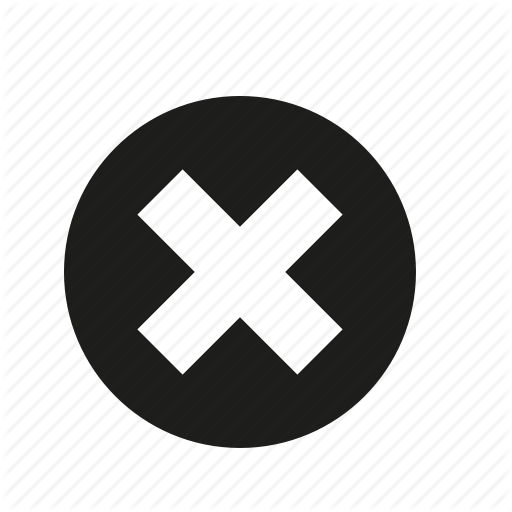
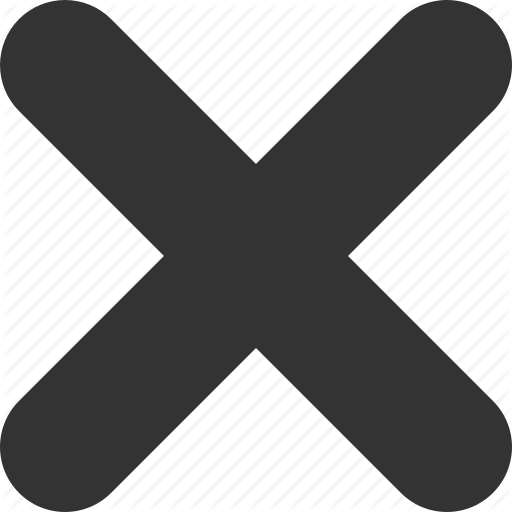
포트폴리오 페이지 버튼 추가

diff --git a/frontend/theorbit/src/app/user-portfolio/user-portfolio.component.ts b/frontend/theorbit/src/app/user-portfolio/user-portfolio.component.ts
@@ -32,6 +32,7 @@ export class UserPortfolioComponent implements OnInit {
   제1항의 탄핵소추는 국회재적의원 3분의 1 이상의 발의가 있어야 하며, 그 의결은 국회재적의원 과반수의 찬성이 있어야 한다. 다만, 대통령에 대한 탄핵소추는 국회재적의원 과반수의 발의와 국회재적의원 3분의 2 이상의 찬성이 있어야 한다. 대한민국은 민주공화국이다. 국가안전보장회의의 조직·직무범위 기타 필요한 사항은 법률로 정한다.\n\
   국가는 국민 모두의 생산 및 생활의 기반이 되는 국토의 효율적이고 균형있는 이용·개발과 보전을 위하여 법률이 정하는 바에 의하여 그에 관한 필요한 제한과 의무를 과할 수 있다. 계엄을 선포한 때에는 대통령은 지체없이 국회에 통고하여야 한다. 대통령이 제1항의 기간내에 공포나 재의의 요구를 하지 아니한 때에도 그 법률안은 법률로서 확정된다.\n\
   국민경제자문회의의 조직·직무범위 기타 필요한 사항은 법률로 정한다. 대통령은 국무총리·국무위원·행정각부의 장 기타 법률이 정하는 공사의 직을 겸할 수 없다. 이 헌법은 1988년 2월 25일부터 시행한다. 다만, 이 헌법을 시행하기 위하여 필요한 법률의 제정·개정과 이 헌법에 의한 대통령 및 국회의원의 선거 기타 이 헌법시행에 관한 준비는 이 헌법시행 전에 할 수 있다.']
+  images = ['https://material.angular.io/assets/img/examples/shiba2.jpg', 'http://placehold.it/400x500/E8117F/ffffff?text=문곰화이팅', 'https://material.angular.io/assets/img/examples/shiba1.jpg', 'http://placehold.it/300x100/E8117F/ffffff?text=졸려요'];
   userName = ['김희재']
   cellWidth;
   activities = [];
@@ -106,9 +107,16 @@ export class UserPortfolioComponent implements OnInit {
       var tempActivity = {
 
         supertag: this.superTagName[Math.floor(Math.random()*this.superTagName.length)],
-        tag: [this.tagName[Math.floor(Math.random()*this.tagName.length)], this.tagName[Math.floor(Math.random()*this.tagName.length)], this.tagName[Math.floor(Math.random()*this.tagName.length)]],
+        tag: [
+          this.tagName[Math.floor(Math.random()*this.tagName.length)], this.tagName[Math.floor(Math.random()*this.tagName.length)], this.tagName[Math.floor(Math.random()*this.tagName.length)]
+        ],
         user: this.userName[Math.floor(Math.random()*this.userName.length)],
-        content: this.content[Math.floor(Math.random()*this.content.length)]
+        content: this.content[Math.floor(Math.random()*this.content.length)],
+        images: [
+          this.images[Math.floor(Math.random()*this.images.length)],
+          this.images[Math.floor(Math.random()*this.images.length)],
+          this.images[Math.floor(Math.random()*this.images.length)]
+        ]
 
       }
 

diff --git a/frontend/theorbit/src/app/user-portfolio-modal/user-portfolio-modal.component.html b/frontend/theorbit/src/app/user-portfolio-modal/user-portfolio-modal.component.html
@@ -41,6 +41,10 @@
 </div>
 
 <div id="main-content" style="display: none;">
+  <img src="/assets/images/close_button.png" id="close-button" (click)="closeDialog()" [ngStyle]="{'position':'fixed', 'top':'20px', 'left': this.screenWidth * 0.95 - 50 + 'px','width':'30px','height':'30px', 'zIndex':'200'}">
+  <img src="/assets/images/right_arrow.png" id="right-button" (click)="clickRightButton()" [ngStyle]="{'position':'fixed', 'top':'50%', 'left': this.screenWidth * 0.95 - 50 + 'px','width':'50px','height':'50px', 'zIndex':'200'}">
+  <img src="/assets/images/left_arrow.png" id="left-button" (click)="clickLeftButton()" [ngStyle]="{'position':'fixed', 'top':'50%', 'left': 230 + this.screenWidth * 0.05 + 'px','width':'50px','height':'50px', 'zIndex':'200'}">
+
   <mat-sidenav mode="side" opened style="width: 230px; left: 0px; top: 0px;" class="fixedclass">
     <mat-accordion>
       <mat-expansion-panel [ngStyle]="{'background-color': '#efefef'}" expanded>
@@ -64,17 +68,28 @@
       </mat-expansion-panel>
     </mat-accordion>
   </mat-sidenav>
-  <div class="row">
-    <div class="col-12">
-      <div class="container">
-        <div *ngFor="let p of this.portfolio.portfolio; let i=index">
+  <div class="row" style="margin: 0px 0px 0px 230px;">
+    <div class="col-1"></div>
+    <div class="col-10">
+      <div class="container" style="text-align: center;">
+        <!-- <div *ngFor="let p of this.portfolio.portfolio; let i=index">
           <p>user : {{ p.user }}</p><br>
           <p>supertag : {{ p.supertag }}</p><br>
           <p>tag : {{ p.tag }}</p><br>
           <p style="margin-bottom: 2rem;white-space:pre-wrap;">{{p.content}}</p>
-          <p>-----------------------------------------------------------------------------------------</p>
+          <p>~~~~~~~~~~~~~~~~~~~~~~~~~~~~~~~~~~~~~~~~~~~~~~~~~~~~~~~~~~~~~~</p>
+        </div> -->
+        <div class="portfolio-specific">
+
+          <p id="portfolio-content-title">user : {{ this.portfolio.portfolio[this.portfolioInd].user }}</p><br>
+          <p id="portfolio-content-tag">tag : {{ this.portfolio.portfolio[this.portfolioInd].tag }}</p><br>
+          <img src="{{ this.portfolio.portfolio[this.portfolioInd].images[1] }}" align="middle" />
+          <p id="portfolio-content" style="margin-bottom: 2rem;white-space:pre-wrap;">{{this.portfolio.portfolio[this.portfolioInd].content}}</p>
+          <img src="{{ this.portfolio.portfolio[this.portfolioInd].images[2] }}" align="middle" />
+
         </div>
       <div>
     </div>
+    <div class="col-1"></div>
   </div>
 </div>

diff --git a/frontend/theorbit/src/app/user-portfolio-modal/user-portfolio-modal.component.ts b/frontend/theorbit/src/app/user-portfolio-modal/user-portfolio-modal.component.ts
@@ -10,22 +10,57 @@ import { MAT_DIALOG_DATA, MatDialogRef } from '@angular/material';
 
 export class UserPortfolioModalComponent implements OnInit {
 
-  constructor( @Inject(MAT_DIALOG_DATA) public portfolio: any, @Inject(MAT_DIALOG_DATA) public tags: any, public dialModalRef: MatDialogRef<any>, private elementRef:ElementRef ) { }
+  constructor( @Inject(MAT_DIALOG_DATA) public portfolio: any, @Inject(MAT_DIALOG_DATA) public tags: any, public dialogRef: MatDialogRef<any>, private elementRef:ElementRef ) { }
+
+  screenWidth:number = window.innerWidth;
+  portfolioInd:number = 0;
 
   ngOnInit() {
     console.log(this.portfolio);
-    // this.changePosition()
+
   }
 
   ngAfterViewInit() {
     setInterval(() => {
       this.elementRef.nativeElement.querySelector('#preloader').style.display = "none";
       this.elementRef.nativeElement.querySelector('#main-content').style.display = "block";
-    }, 500);
+    }, 750);
+
+    this.elementRef.nativeElement.querySelector('.portfolio-specific').addEventListener('animationend', function(){
+      this.elementRef.nativeElement.querySelector('.portfolio-specific').classList.remove('animated');
+      this.elementRef.nativeElement.querySelector('.portfolio-specific').classList.remove('fadeInRight');
+      this.elementRef.nativeElement.querySelector('.portfolio-specific').classList.remove('fadeInLeft');
+    }.bind(this));
+  }
+
+  closeDialog() {
+    this.dialogRef.close('Portfolio closed');
+  }
+
+  clickRightButton(){
+
+    this.elementRef.nativeElement.querySelector('.portfolio-specific').classList.add('animated');
+    this.elementRef.nativeElement.querySelector('.portfolio-specific').classList.add('fadeInRight');
+    if(this.portfolioInd == this.portfolio.portfolio.length - 1){
+      this.portfolioInd = 0;
+    }else{
+      this.portfolioInd++;
+    }
+
+  }
+
+  clickLeftButton(){
+    this.elementRef.nativeElement.querySelector('.portfolio-specific').classList.add('animated');
+    this.elementRef.nativeElement.querySelector('.portfolio-specific').classList.add('fadeInLeft');
+    if(this.portfolioInd == 0){
+      this.portfolioInd = this.portfolio.portfolio.length - 1;
+    }else{
+      this.portfolioInd--;
+    }
   }
 
   changePosition() {
-    this.dialModalRef.updatePosition({ top: '50px', left: '50px' });
+    this.dialogRef.updatePosition({ top: '50px', left: '50px' });
   }
 
 }

diff --git a/frontend/theorbit/src/app/usertimeline/usertimeline.component.ts b/frontend/theorbit/src/app/usertimeline/usertimeline.component.ts
@@ -843,7 +843,7 @@ export class UsertimelineComponent implements OnInit {
           <div class = "col s9 m9 l9"></div>\
           <div class = "col s3 m3 l3"></div>\
             <img src="/assets/images/maximize_button.png" id="maximize-button-'+ index +'" style="width: 20px; height: 20px;">\
-            <img src="/assets/images/close_button.png" id="close-button-'+ index +'" style="width: 20px; height: 20px;">\
+            <img src="/assets/images/close_button_circle.png" id="close-button-'+ index +'" style="width: 20px; height: 20px;">\
           </div>\
         </div>\
       </div>\

diff --git a/frontend/theorbit/src/app/user-portfolio-modal/user-portfolio-modal.component.css b/frontend/theorbit/src/app/user-portfolio-modal/user-portfolio-modal.component.css
@@ -1,0 +1,4 @@
+img {
+  margin-top:40px;
+  margin-bottom:40px;
+}
